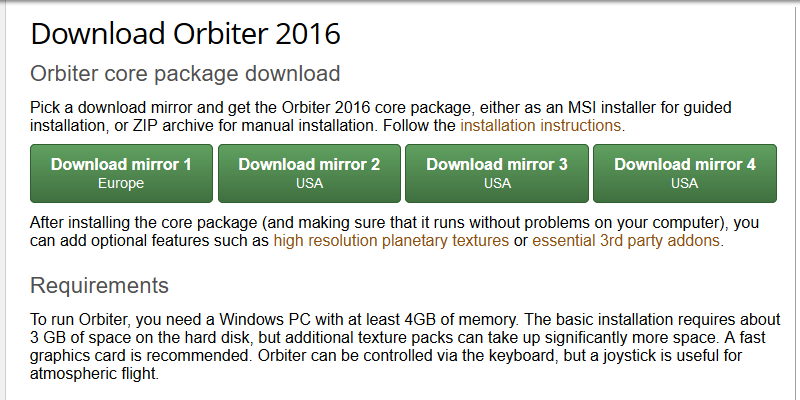
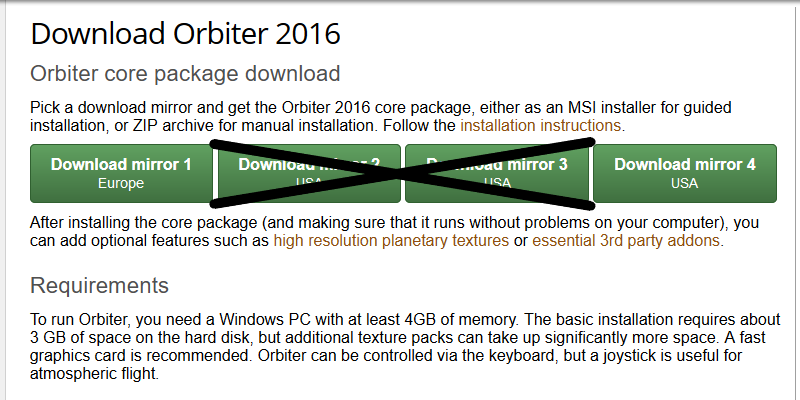
Updated links for orbiter2016 and d3d9 runtime

Changed region(s): [[0.25, 0.33, 0.75, 0.54]]

diff --git a/basic/orbiter2016.html b/basic/orbiter2016.html
@@ -78,7 +78,12 @@
 
     <p>
       <strong>Orbiter core package download</strong>が、本体のダウンロード。<br>
-      4つのミラーサイトから、どれか1つを選んでクリック。
+      <kbd>Download mirror 1</kbd>をクリック。
+    </p>
+
+    <p class="caution">
+      <strong>mirror 2</strong>と<strong>mirror 3</strong>が現在使用できなくなっています。<br>
+      無関係なサイトに転送されるのでクリックしないでください。
     </p>
 
     <p>
@@ -197,14 +202,14 @@
 
     <ul>
       <li>
-        <a href="https://www.microsoft.com/en-us/download/details.aspx?id=8109" target="_blank"
-          rel="noopener noreferrer">DirectX End-User Runtimes (June 2010)</a>
+        <a href="https://www.microsoft.com/ja-jp/download/details.aspx?id=8109" target="_blank"
+          rel="noopener noreferrer">Download DirectX Redist (June 2010)</a>
       </li>
     </ul>
 
-    <p>
+    <figure>
       <img loading="lazy" src="/images/basic/orbiter2016/005.png" width="800" height="400">
-    </p>
+    </figure>
 
     <p>
       ダウンロードしたファイルをダブルクリック。<br>
@@ -484,7 +489,12 @@
 
     <p>
       <strong>Optional high-resolution texture download</strong>に移動する。<br>
-      4つのミラーサイトから1つ選んでクリック。
+      <kbd>Download mirror 1</kbd>をクリック。
+    </p>
+
+    <p class="caution">
+      <strong>mirror 2</strong>と<strong>mirror 3</strong>が現在使用できなくなっています。<br>
+      無関係なサイトに転送されるのでクリックしないでください。
     </p>
 
     <p>

diff --git a/basic/orbiter2010.html b/basic/orbiter2010.html
@@ -189,14 +189,16 @@
       <strong>D3D9Client</strong>のために、<strong>DirectX</strong>のランタイムを導入する。
     </p>
 
-    <p>
-      <a href="https://www.microsoft.com/en-us/download/details.aspx?id=8109" target="_blank"
-        rel="noopener noreferrer">DirectX End-User Runtimes (June 2010)</a>
-    </p>
+    <ul>
+      <li>
+        <a href="https://www.microsoft.com/ja-jp/download/details.aspx?id=8109" target="_blank"
+          rel="noopener noreferrer">Download DirectX Redist (June 2010)</a>
+      </li>
+    </ul>
 
-    <p>
-      <img loading="lazy" src="/images/basic/orbiter2010/011.png" width="800" height="400">
-    </p>
+    <figure>
+      <img loading="lazy" src="/images/basic/orbiter2016/005.png" width="800" height="400">
+    </figure>
 
     <p>
       ダウンロードしたファイルをダブルクリック。<br>
@@ -229,7 +231,7 @@
     <p>
       <a href="https://drive.google.com/file/d/1Df7YQMXHNdNssxU-tFDIun4uULQjnYst/view?usp=sharing" target="_blank"
         rel="noopener noreferrer">orbiter2010hires.7z</a><br>
-        （1.41GB、解凍後は2.78GB）
+      （1.41GB、解凍後は2.78GB）
     </p>
 
     <p>

diff --git a/basic/d3d9client.html b/basic/d3d9client.html
@@ -75,14 +75,16 @@
       ダウンロードは以下のリンクから。
     </p>
 
-    <p>
-      <a href="https://www.microsoft.com/en-us/download/details.aspx?id=8109" target="_blank"
-        rel="noopener noreferrer">DirectX End-User Runtimes (June 2010)</a>
-    </p>
+    <ul>
+      <li>
+        <a href="https://www.microsoft.com/ja-jp/download/details.aspx?id=8109" target="_blank"
+          rel="noopener noreferrer">Download DirectX Redist (June 2010)</a>
+      </li>
+    </ul>
 
-    <p>
-      <img loading="lazy" src="/images/basic/d3d9client/005.png" width="800" height="400">
-    </p>
+    <figure>
+      <img loading="lazy" src="/images/basic/orbiter2016/005.png" width="800" height="400">
+    </figure>
 
     <p>
       ダウンロードしたファイルをダブルクリック。<br>
